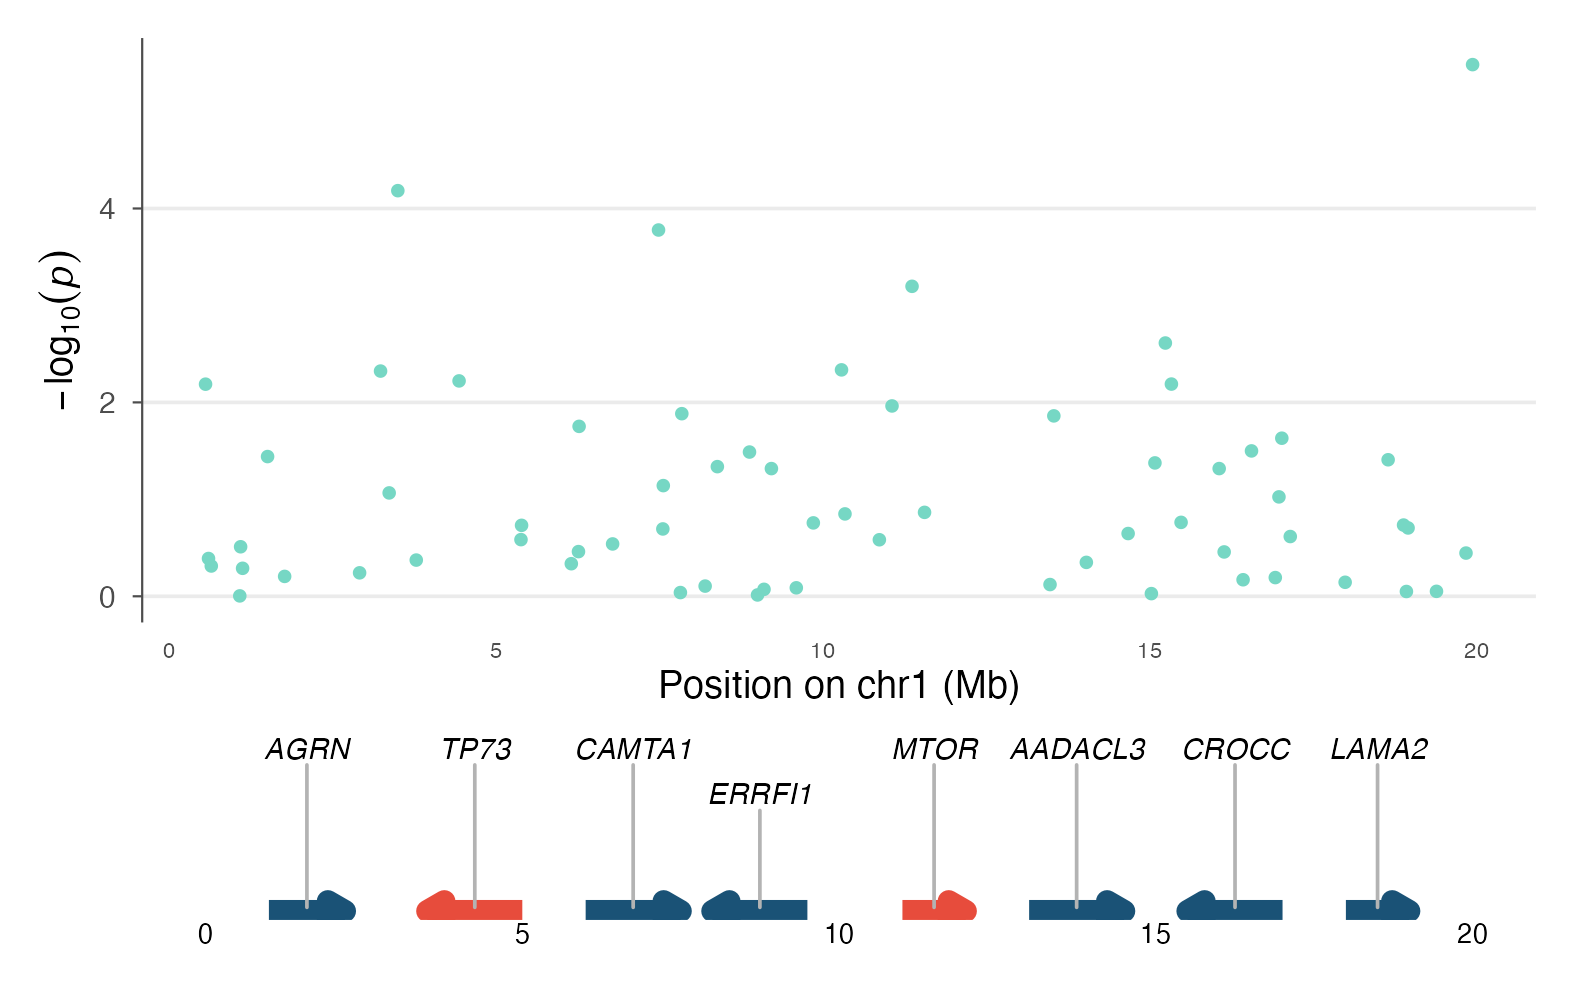
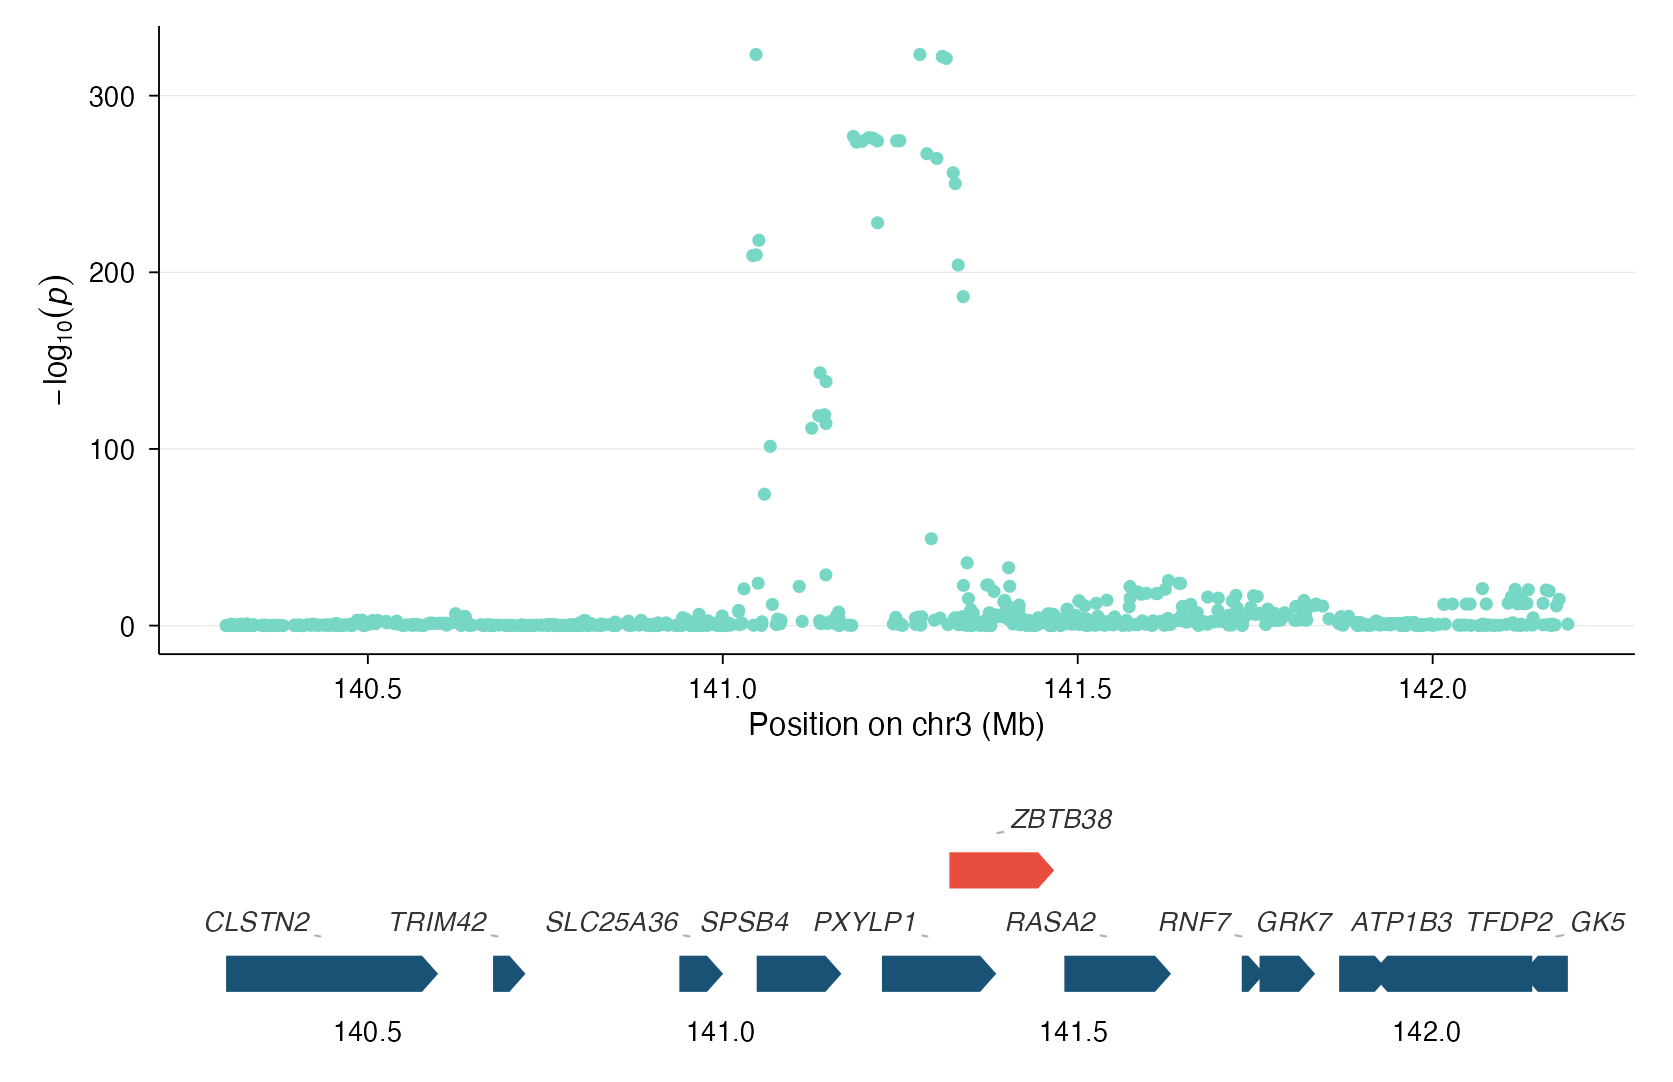
fix: improve gene track with chevron shapes and repelled labels
Gene bodies rendered as directional polygons instead of blobs.
Labels use geom_text_repel to avoid overlap. Genes clipped to
region boundaries. read_gtf gains biotype filter for protein-coding.

diff --git a/README.md b/README.md
@@ -37,9 +37,10 @@ and journal-specific themes.
 | <img src="man/figures/example_density.png" width="400" /> | <img src="man/figures/example_density_points.png" width="400" /> |
 | **Density vs signal** | **P-value heatmap** |
 | <img src="man/figures/example_density_signal.png" width="400" /> | <img src="man/figures/example_heatmap.png" width="400" /> |
-| **Locus zoom** | **Gene track** |
-| <img src="man/figures/example_locus.png" width="400" /> | <img src="man/figures/example_gene_track.png" width="400" /> |
-| **Genetic architecture** | **Journal themes** |
+| **Locus zoom** | **Genetic architecture** |
+| <img src="man/figures/example_locus.png" width="400" /> | <img src="man/figures/example_architecture.png" width="400" /> |
+| **Journal themes** | |
+| <img src="man/figures/example_themes.png" width="400" /> | |
 | <img src="man/figures/example_architecture.png" width="400" /> | <img src="man/figures/example_themes.png" width="400" /> |
 
 Full documentation with worked examples: **https://bczech.github.io/ggwas/**